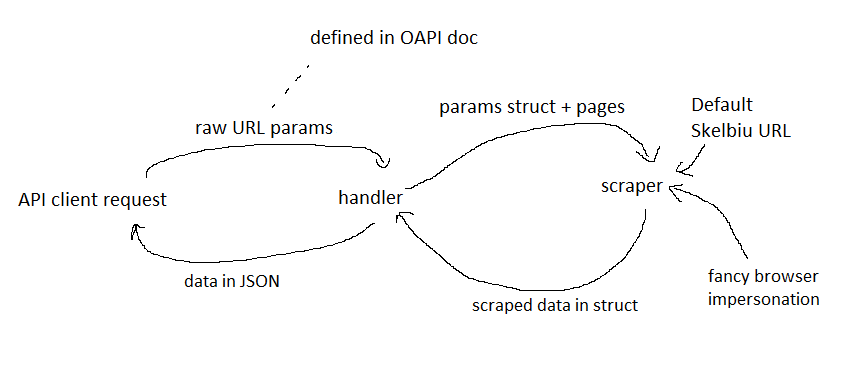
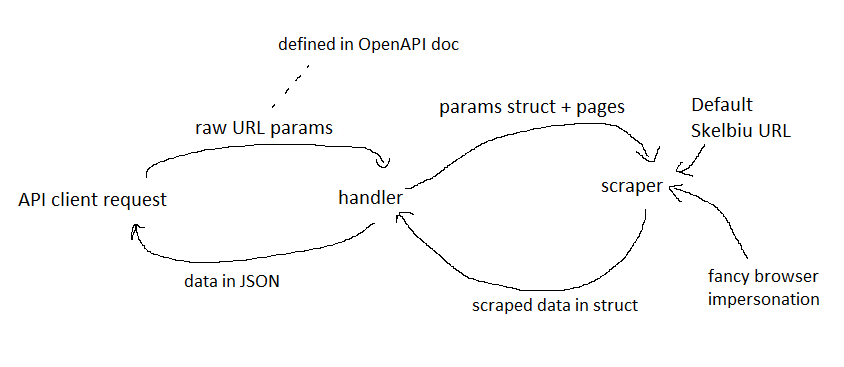
Fix documentation mistakes

Changed region(s): [[0.3081, 0.0599, 0.5853, 0.1499]]

diff --git a/README.md b/README.md
@@ -86,6 +86,17 @@ Our greatest scientists have created this wonderful process flow chart to illust
 
 ### Planned features
 
-- Opt-in listing caching w/ Redis
-- Front-end API demo
 - Server deployment on Ubuntu home server
+- Front-end API demo
+- Opt-in listing caching w/ Redis
+- Edge-case handling (Network interruptions, graceful shutdown)
+- Rolling release system
+
+<!-- 
+  TODO:
+  - Make API use skelbiu url names, not Go struct fields    !!!!!! ONLY RELEASE THIS AS v2.0, because it breaks API !!!!!!
+  - Add graceful shutdowns (test with launching a compiled executable or something)
+  - Add handling for Network interruptions by starting server again automatically
+  - Rolling release compiled installer
+  - Possibly remove Pascal code in installer script, as this wasn't hand written
+ -->
